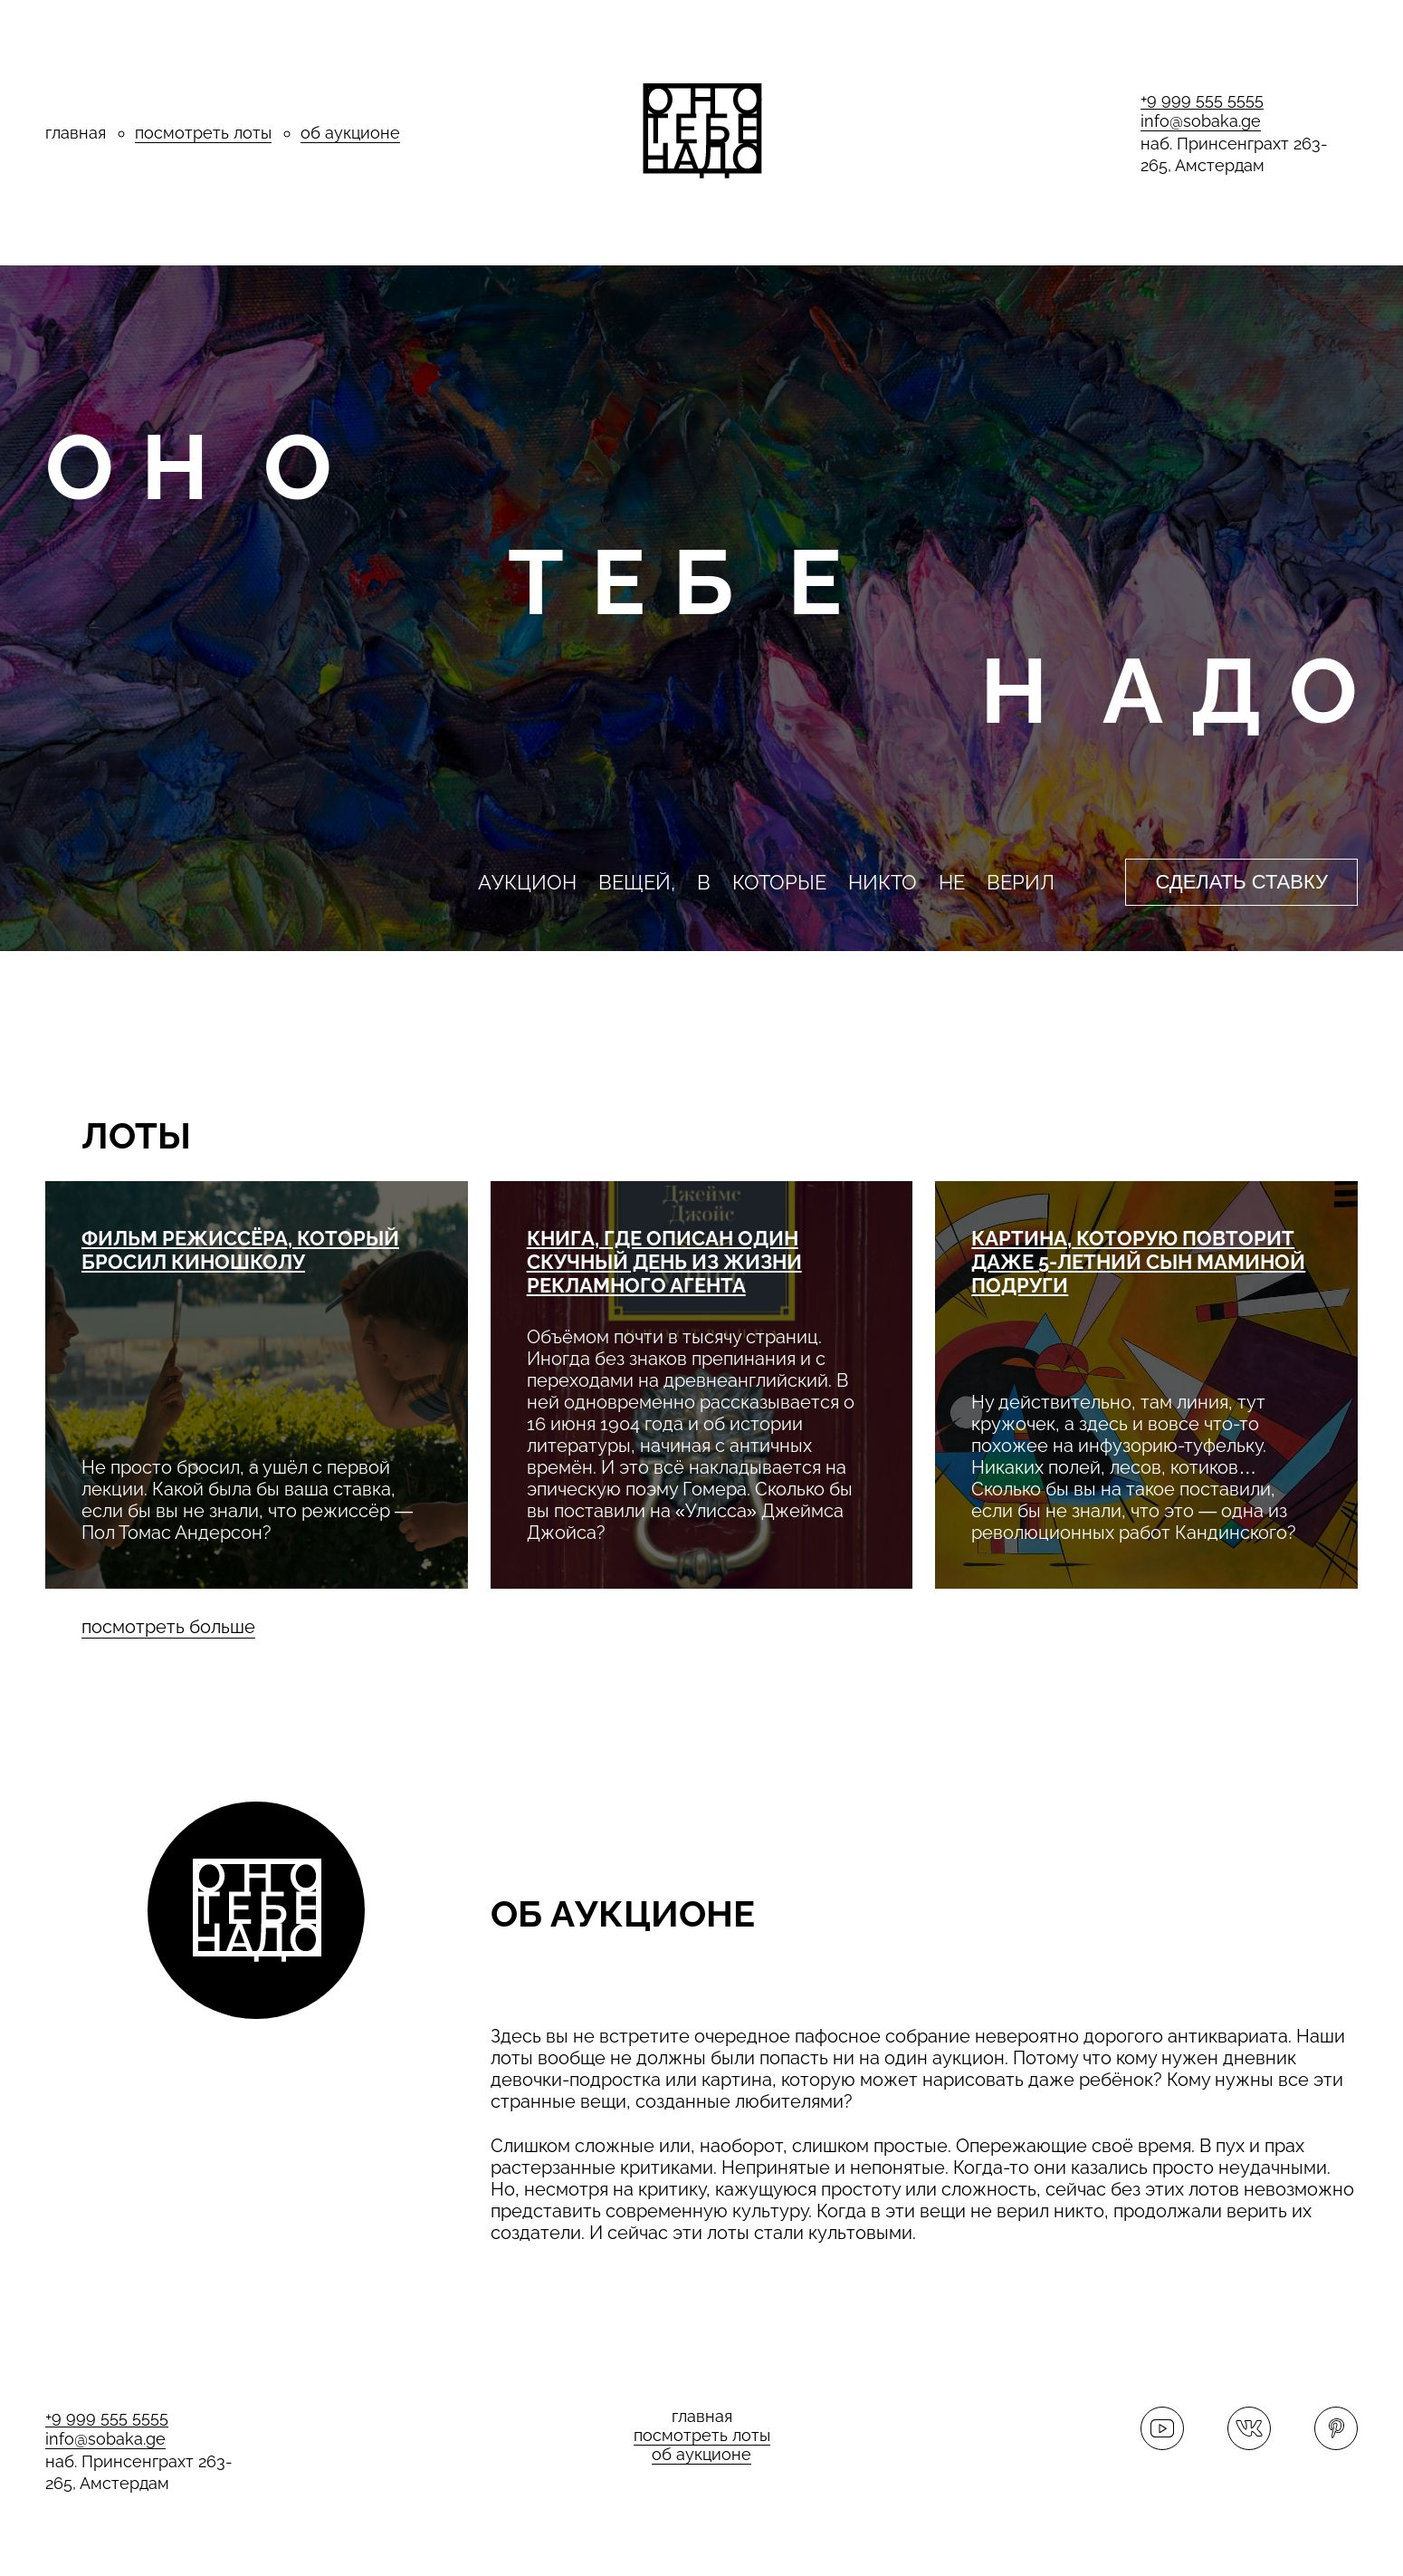
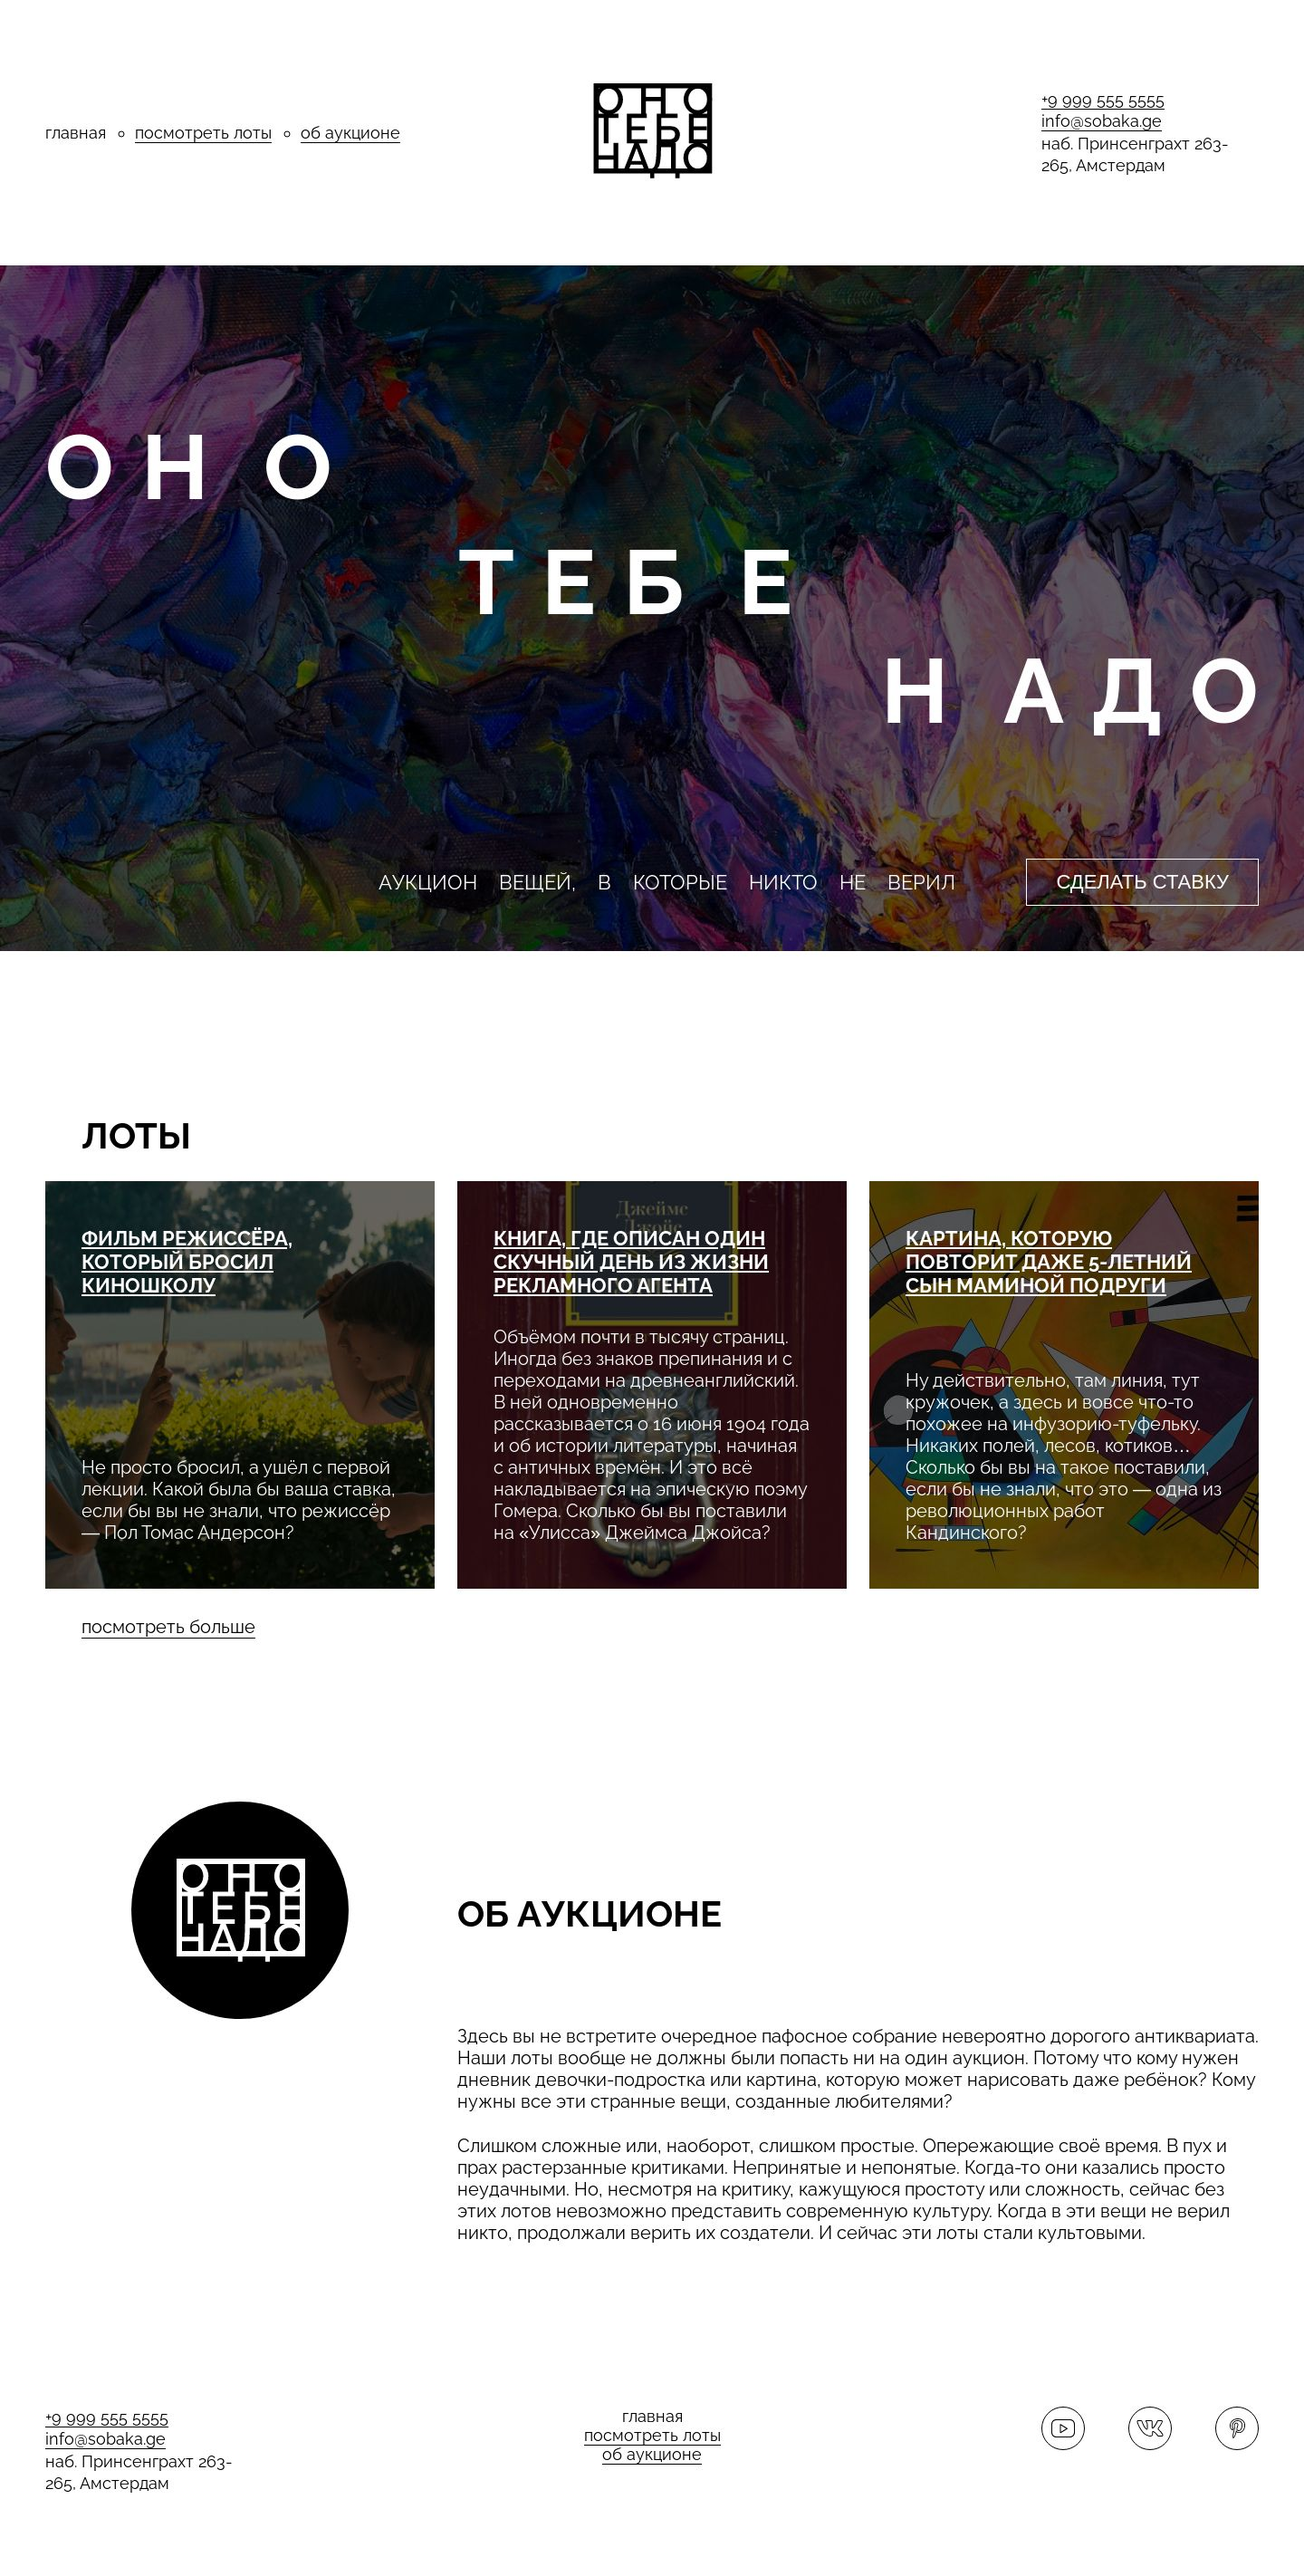
05e34945784e7d0bb09bf74c89b9b204e4bc7fc1

diff --git a/src/puppeteer.js b/src/puppeteer.js
@@ -1,1 +1,1 @@
-import puppeteer from'puppeteer';import fileUrl from'file-url';export default(async a=>{const b=await puppeteer.launch({headless:!0}),c=await b.newPage();return await c.setViewport({width:1550,height:1080,deviceScaleFactor:1}),await c.goto(fileUrl(a),{waitUntil:'networkidle0'}),await c.waitForTimeout(3e3),{browser:b,page:c}});const hasElementBySelectors=async(a,b)=>{const c=await a.evaluate(a=>!!document.querySelector(a),b);return c},getElement=async(a,b)=>{const c=await a.evaluate(a=>document.querySelector(a),b);return c},getStyle=async(a,b,c)=>{const d=await a.evaluate((a,b)=>{const c=document.querySelector(a);return b.map(a=>window.getComputedStyle(c).getPropertyValue(a))},b,c);return d};export{hasElementBySelectors,getElement,getStyle};
+import puppeteer from'puppeteer';import fileUrl from'file-url';export default(async a=>{const b=await puppeteer.launch({headless:!0}),c=await b.newPage();return await c.setViewport({width:1440,height:1080,deviceScaleFactor:1}),await c.goto(fileUrl(a),{waitUntil:'networkidle0'}),await c.waitForTimeout(3e3),{browser:b,page:c}});const hasElementBySelectors=async(a,b)=>{const c=await a.evaluate(a=>!!document.querySelector(a),b);return c},getElement=async(a,b)=>{const c=await a.evaluate(a=>document.querySelector(a),b);return c},getStyle=async(a,b,c)=>{const d=await a.evaluate((a,b)=>{const c=document.querySelector(a);return b.map(a=>window.getComputedStyle(c).getPropertyValue(a))},b,c);return d};export{hasElementBySelectors,getElement,getStyle};
